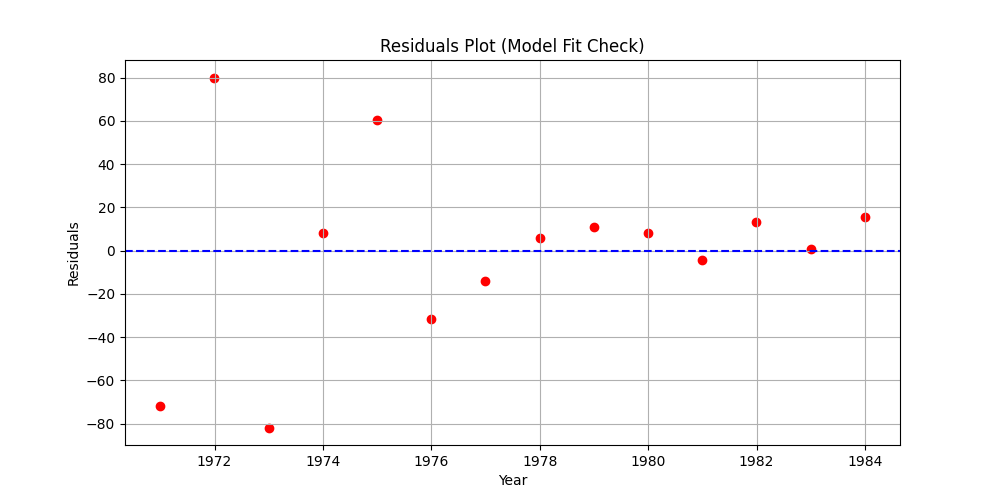
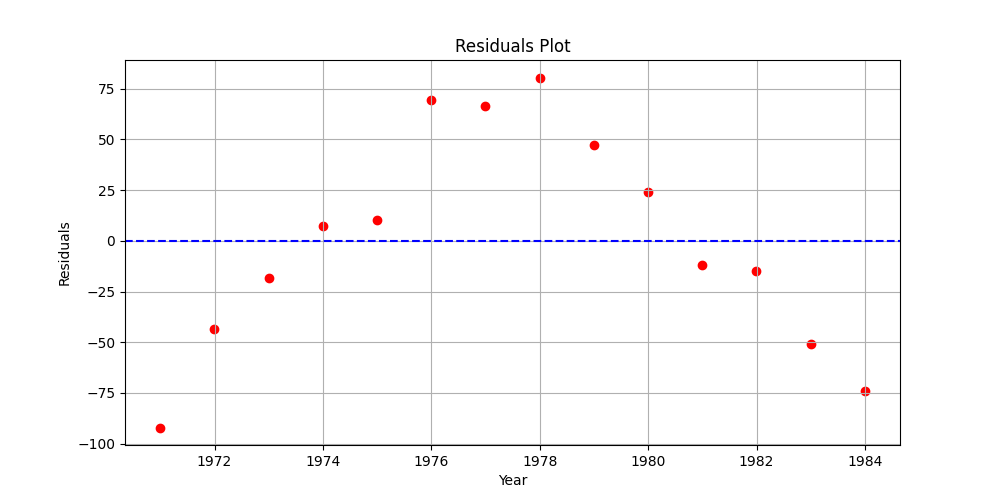
fix: Correct initial GDP per capita values and refactor future projection calculations for clarity and dynamism.

diff --git a/wfi.py b/wfi.py
@@ -10,9 +10,9 @@ from sklearn.metrics import r2_score
 np.random.seed(42)  # For reproducibility
 training_data = pd.DataFrame({
     "year": pd.date_range(2010, periods=14, freq="YE"),
-    "gdp_per_capita_usd": [11500, 11800, 121000, 123000, 125000, 128000,
+    "gdp_per_capita_usd": [115000, 118000, 121000, 123000, 125000, 128000,
                            130000, 132000, 135000, 137000, 140000, 142000,
-                           145000, 148000],          # <-- usd, not usb
+                           145000, 148000],
     "military_pct_gdp": [4.2, 3.9, 3.7, 3.5, 3.4, 4.8, 4.9, 5.1, 5.2,
                          5.3, 5.5, 5.6, 5.8, 5.9],
     "military_spending_usd": [950, 1020, 1080, 1120, 1150, 1450, 1500,
@@ -37,131 +37,61 @@ target = "military_spending_usd"
 model = LinearRegression()
 model.fit(training_data[features], training_data[target])
 
-# Evaluate model performance
 y_pred = model.predict(training_data[features])
-r2 = r2_score(training_data[target], y_pred)
-print(f"Model R² Score: {r2:.4f}")
+print(f"Model R² Score: {r2_score(training_data[target], y_pred):.4f}")
 
-# Plot residuals (to check for patterns)
-residuals = training_data[target] - y_pred
+# Plot residuals
 plt.figure(figsize=(10, 5))
-plt.scatter(training_data["year"], residuals, color="red")
+plt.scatter(training_data["year"], training_data[target] - y_pred, color="red")
 plt.axhline(y=0, color="blue", linestyle="--")
-plt.title("Residuals Plot (Model Fit Check)")
+plt.title("Residuals Plot")
 plt.xlabel("Year")
 plt.ylabel("Residuals")
 plt.grid(True)
 plt.savefig("residuals_plot.png")
 
 # --------------------
-# 3. compute genuine annual growth rates (CAGR) for the historical series
+# 3. PROJECTIONS (2024 - 1 year ahead)
 # --------------------
-years = len(training_data) - 1  # 14 points span 13 full year‑on‑year intervals
+years = len(training_data) - 1
+latest_data = training_data.iloc[-1]
 
-def compound_rate(start, end, periods):
-    """compound annual growth rate between `start` and `end` over `periods` years"""
-    return (end / start) ** (1 / periods) - 1
+def project_future_value(col_name, years_ahead=1):
+    """Calculates CAGR and projects the value forward."""
+    start, end = training_data[col_name].iloc[0], latest_data[col_name]
+    cagr = (end / start) ** (1 / years) - 1
+    return end * (1 + cagr) ** years_ahead
 
-latest_year_data = training_data.iloc[-1]  # Get last row
+# Project values dynamically
+projected = {col: project_future_value(col) for col in [
+    "gdp_per_capita_usd", "military_pct_gdp", "military_troops", 
+    "fighter_active", "nuclear_submarines", "aircraft_carriers"
+]}
 
-gdp_growth_rate = compound_rate(
-    training_data["gdp_per_capita_usd"].iloc[0],
-    latest_year_data["gdp_per_capita_usd"],
-    years
-)
-
-military_pct_rate = compound_rate(
-    training_data["military_pct_gdp"].iloc[0],
-    latest_year_data["military_pct_gdp"],
-    years
-)
-
-military_troops_rate = compound_rate(
-    training_data["military_troops"].iloc[0],
-    latest_year_data["military_troops"],
-    years
-)
-
-fighter_rate = compound_rate(
-    training_data["fighter_active"].iloc[0],
-    latest_year_data["fighter_active"],
-    years
-)
-
-nuclear_sub_rate = compound_rate(
-    training_data["nuclear_submarines"].iloc[0],
-    latest_year_data["nuclear_submarines"],
-    years
-)
-
-carriers_rate = compound_rate(
-    training_data["aircraft_carriers"].iloc[0],
-    latest_year_data["aircraft_carriers"],
-    years
-)
-
-# --------------------
-# 4. SIMULATION PARAMETERS (2024 - 1 year ahead)
-# --------------------
-
-# Project future values based on those rates
-def project_future_value(current_value, growth_rate, years_ahead=1):
-    return current_value * (1 + growth_rate) ** years_ahead
-
-future_gdp = project_future_value(latest_year_data["gdp_per_capita_usd"], gdp_growth_rate, years_ahead=1)
-future_pct = project_future_value(latest_year_data["military_pct_gdp"], military_pct_rate, years_ahead=1)
-
-# Create future data DataFrame for prediction
-future_data = pd.DataFrame({
-    "gdp_per_capita_usd": [future_gdp],
-    "military_pct_gdp": [future_pct]
-})
-
-# Predict military spending using the trained model
+# Predict spending for 2024
+future_data = pd.DataFrame([{
+    "gdp_per_capita_usd": projected["gdp_per_capita_usd"], 
+    "military_pct_gdp": projected["military_pct_gdp"]
+}])
 predicted_spending = model.predict(future_data)[0]
 
-army_strength = int(project_future_value(
-    latest_year_data["military_troops"],
-    military_troops_rate,
-    years_ahead=1
-))
-
-fighter_sorties = int(project_future_value(
-    latest_year_data["fighter_active"],
-    fighter_rate,
-    years_ahead=1
-))
-
-nuclear_subs = int(project_future_value(
-    latest_year_data["nuclear_submarines"],
-    nuclear_sub_rate,
-    years_ahead=1
-))
-
-carriers = int(project_future_value(
-    latest_year_data["aircraft_carriers"],
-    carriers_rate,
-    years_ahead=1
-))
+army_strength = int(projected["military_troops"])
 
 # --------------------
-# 5. ARMY ATTRITION MODEL (Projected Reductions)
+# 4. ARMY ATTRITION MODEL (Projected Reductions)
 # --------------------
-# Annual estimated attrition rates (as percentages of total forces)
 RETIREMENT_RATE = 0.05       # ~5% standard retirement/separation
 NATURAL_DEATH_RATE = 0.001   # ~0.1% expected natural mortality
 TRAINING_DEATH_RATE = 0.0002 # ~0.02% expected training exercise fatalities
 
-# Calculate reductions
 retirements = int(army_strength * RETIREMENT_RATE)
 natural_deaths = int(army_strength * NATURAL_DEATH_RATE)
 training_deaths = int(army_strength * TRAINING_DEATH_RATE)
 
-total_attrition = retirements + natural_deaths + training_deaths
-net_army_strength = army_strength - total_attrition
+net_army_strength = army_strength - (retirements + natural_deaths + training_deaths)
 
 # --------------------
-# 6. SIMULATION OUTPUT (2024)
+# 5. SIMULATION OUTPUT (2024)
 # --------------------
 print("\n=== 2024 MILITARY SIMULATION RESULTS ===")
 print(f"Predicted military spending (USD) = ${predicted_spending:,.0f}")
@@ -170,10 +100,8 @@ print(f"  - Less Retirements: {retirements:,}")
 print(f"  - Less Natural Deaths: {natural_deaths:,}")
 print(f"  - Less Training Casualties: {training_deaths:,}")
 print(f"Net Army Strength (Active Personnel) = {net_army_strength:,}")
-print(f"Nuclear submarines = {nuclear_subs:,}")
-print(f"Fighter sorties (annual) = {fighter_sorties:,}")
-print(f"Aircraft carriers = {carriers:,}")
-# Calculate some derived metrics
-military_efficiency = predicted_spending / net_army_strength * 1000
+print(f"Nuclear submarines = {int(projected['nuclear_submarines']):,}")
+print(f"Fighter sorties (annual) = {int(projected['fighter_active']):,}")
+print(f"Aircraft carriers = {int(projected['aircraft_carriers']):,}")
 print(f"\nDerived Metrics:")
-print(f"Military efficiency (USD per active soldier): ${military_efficiency:,.2f}")
+print(f"Military efficiency (USD per active soldier): ${predicted_spending / net_army_strength * 1000:,.2f}")
